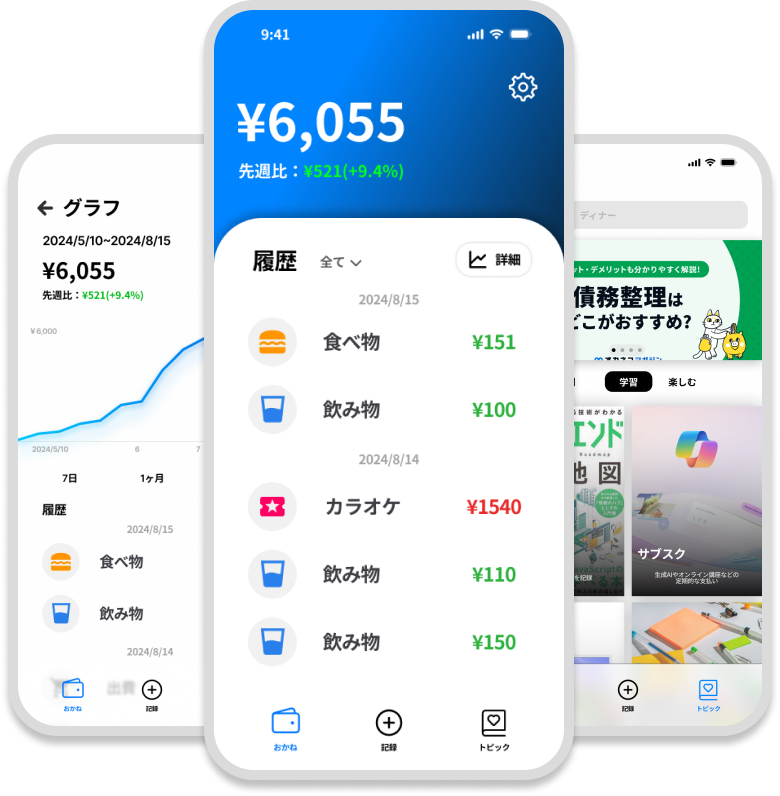
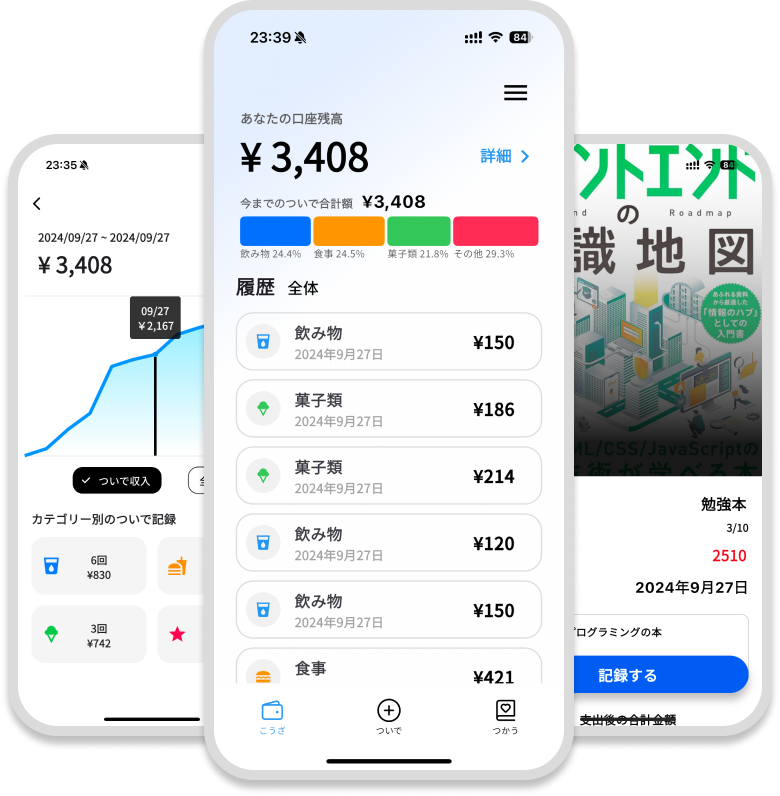
ウォークスルーページの追加

diff --git a/lib/views/pages/walkthrough/pageview.dart b/lib/views/pages/walkthrough/pageview.dart
@@ -36,21 +36,27 @@ class _PageViewWidgetState extends State<PageViewWidget>  with TickerProviderSta
 
   @override
   Widget build(BuildContext context) {
+    // 画面の高さを取得
+    final screenHeight = MediaQuery.of(context).size.height;
+
+    // 画面の高さに基づいてパディングを設定
+    final topPadding = screenHeight * 0.1;  // 高さの10%
+    final bottomPadding = screenHeight * 0.1;  // 高さの20%
     return PopScope(
       canPop: false,
       child: Scaffold(
         backgroundColor: Colors.white,
-        body: Column(
-          children: [
-            Expanded(
-              child: PageView(
-                controller: _pageViewController,
-                onPageChanged: _handlePageViewChanged,
-                children: <Widget>[
-                  Padding(
-                    padding: EdgeInsets.fromLTRB(20, 150, 20, 200),
-                    child: Column(
-                      mainAxisAlignment: MainAxisAlignment.spaceBetween,
+        body: Padding(
+          padding: EdgeInsets.fromLTRB(20, topPadding, 20, bottomPadding),
+          child:  Column(
+            children: [
+              Expanded(
+                child: PageView(
+                  controller: _pageViewController,
+                  onPageChanged: _handlePageViewChanged,
+                  children: <Widget>[
+                    Column(
+                      mainAxisAlignment: MainAxisAlignment.center,
                       children: [
                         Text('ついで口座',
                           style: TextStyle(
@@ -59,7 +65,7 @@ class _PageViewWidgetState extends State<PageViewWidget>  with TickerProviderSta
                             color: Colors.black
                           ),
                         ),
-                        SizedBox(height: 50),
+                        SizedBox(height: 100),
                         Image.asset(
                           'assets/images/walkthrough.png', 
                           width: MediaQuery.of(context).size.width * 0.8, 
@@ -67,16 +73,13 @@ class _PageViewWidgetState extends State<PageViewWidget>  with TickerProviderSta
                         ),
                       ],
                     ),
-                  ),
-                  Padding(
-                    padding: const EdgeInsets.fromLTRB(20, 70, 20, 150),
-                    child: Column(
+                    Column(
                       mainAxisAlignment: MainAxisAlignment.start,
                       children: [
-                        Container(
-                          height: 300,
-                          width: 300,
-                          color: Colors.grey,
+                        Image.asset(
+                          'assets/images/kiroku.png', 
+                          width: MediaQuery.of(context).size.width * 0.8, 
+                          fit: BoxFit.cover, 
                         ),
                         SizedBox(height: 100),                   
                         Text('日々のついで出費を記録', 
@@ -90,7 +93,47 @@ class _PageViewWidgetState extends State<PageViewWidget>  with TickerProviderSta
                         RichText(
                           textAlign: TextAlign.center,
                           text: TextSpan(
-                            text: '生活するうえでどちらかといえば必要じゃない出費を', 
+                            text: '生活するうえでどちらかといえば必要じゃない出費を日々の我慢した金額をアプリに記録しよう！', 
+                            style: TextStyle(
+                              fontSize: 16, 
+                              fontWeight: FontWeight.bold,
+                              color: Color(0xff5B5B5B)
+                            ),
+                            // children: <TextSpan>[
+                            //   TextSpan(
+                            //     text: '\n日々の我慢した金額をアプリに記録しよう！', 
+                            //     style: TextStyle(
+                            //       fontSize: 16, 
+                            //       fontWeight: FontWeight.bold,
+                            //       color: Color(0xff5B5B5B)
+                            //     )
+                            //   ),
+                            // ],
+                          ),
+                        ),
+                      ],
+                    ),
+                    Column(
+                      mainAxisAlignment: MainAxisAlignment.start,
+                      children: [
+                        Image.asset(
+                          'assets/images/payment.png', 
+                          width: MediaQuery.of(context).size.width * 0.8, 
+                          fit: BoxFit.cover, 
+                        ),
+                        SizedBox(height: 100),                   
+                        Text('ついで収入で支出をお得に', 
+                          style: TextStyle(
+                            fontSize: 24, 
+                            fontWeight: FontWeight.bold,
+                            color: Colors.black
+                          )
+                        ),
+                        SizedBox(height: 20),
+                        RichText(
+                          textAlign: TextAlign.center,
+                          text: TextSpan(
+                            text: '今までのついで出費で必要な出費がお得に！', 
                             style: TextStyle(
                               fontSize: 16, 
                               fontWeight: FontWeight.bold,
@@ -98,7 +141,7 @@ class _PageViewWidgetState extends State<PageViewWidget>  with TickerProviderSta
                             ),
                             children: <TextSpan>[
                               TextSpan(
-                                text: '\n日々の我慢した金額をアプリに記録しよう！', 
+                                text: '\nコツコツ記録して貯金をはじめよう!', 
                                 style: TextStyle(
                                   fontSize: 16, 
                                   fontWeight: FontWeight.bold,
@@ -110,16 +153,13 @@ class _PageViewWidgetState extends State<PageViewWidget>  with TickerProviderSta
                         ),
                       ],
                     ),
-                  ),
-                Padding(
-                    padding: const EdgeInsets.fromLTRB(20, 70, 20, 150),
-                    child: Column(
+                    Column(
                       mainAxisAlignment: MainAxisAlignment.start,
                       children: [
-                        Container(
-                          height: 300,
-                          width: 300,
-                          color: Colors.grey,
+                        Image.asset(
+                          'assets/images/graph.png', 
+                          width: MediaQuery.of(context).size.width * 0.8, 
+                          fit: BoxFit.cover, 
                         ),
                         SizedBox(height: 100),                   
                         Text('グラフで見える化', 
@@ -153,54 +193,11 @@ class _PageViewWidgetState extends State<PageViewWidget>  with TickerProviderSta
                         ),
                       ],
                     ),
-                  ),
-                  Padding(
-                    padding: const EdgeInsets.fromLTRB(20, 70, 20, 150),
-                    child: Column(
-                      mainAxisAlignment: MainAxisAlignment.start,
-                      children: [
-                        Container(
-                          height: 300,
-                          width: 300,
-                          color: Colors.grey,
-                        ),
-                        SizedBox(height: 100),                   
-                        Text('貯めた残高で出費に割り当てよう', 
-                          style: TextStyle(
-                            fontSize: 24, 
-                            fontWeight: FontWeight.bold,
-                            color: Colors.black
-                          )
-                        ),
-                        SizedBox(height: 20),
-                        RichText(
-                          textAlign: TextAlign.center,
-                          text: TextSpan(
-                            text: '今までのついで出費で必要な出費がお得に！', 
-                            style: TextStyle(
-                              fontSize: 16, 
-                              fontWeight: FontWeight.bold,
-                              color: Color(0xff5B5B5B)
-                            ),
-                            children: <TextSpan>[
-                              TextSpan(
-                                text: '\nコツコツ記録して貯金をはじめよう!', 
-                                style: TextStyle(
-                                  fontSize: 16, 
-                                  fontWeight: FontWeight.bold,
-                                  color: Color(0xff5B5B5B)
-                                )
-                              ),
-                            ],
-                          ),
-                        ),
-                      ],
-                    ),
-                  ),
-                ],
+                  ],
+                ),
               ),
-            ),
-          ],
+            ],
+          ),
         ),
         floatingActionButton: Padding(
           padding: EdgeInsets.symmetric(horizontal: 30),

diff --git a/lib/views/pages/graph/graph_page.dart b/lib/views/pages/graph/graph_page.dart
@@ -295,28 +295,28 @@ class _GraphPageState extends ConsumerState<GraphPage> with SingleTickerProvider
                     // 飲み物のデータを表示
                     _buildGridItem(
                       Icons.local_drink, 
-                      Colors.blue, 
+                      Color(0xff007AFF),
                       '${categoryData['飲み物']?['count'] ?? 0}回', 
                       '¥${NumberFormat("#,###").format(categoryData['飲み物']?['totalPrice'] ?? 0)}'
                     ),
                     // 食事のデータを表示
                     _buildGridItem(
                       Icons.fastfood, 
-                      Colors.orange, 
+                      Color(0xffFF9500), 
                       '${categoryData['食事']?['count'] ?? 0}回', 
                       '¥${NumberFormat("#,###").format(categoryData['食事']?['totalPrice'] ?? 0)}'
                     ),
                     // 菓子類のデータを表示
                     _buildGridItem(
                       Icons.icecream, 
-                      Colors.lightGreen, 
+                      Color(0xff34C759),
                       '${categoryData['菓子類']?['count'] ?? 0}回', 
                       '¥${NumberFormat("#,###").format(categoryData['菓子類']?['totalPrice'] ?? 0)}'
                     ),
                     // その他のデータを表示
                     _buildGridItem(
                       Icons.star, 
-                      Colors.green, 
+                      Color(0xffFF2D55), 
                       '${categoryData['その他']?['count'] ?? 0}回', 
                       '¥${NumberFormat("#,###").format(categoryData['その他']?['totalPrice'] ?? 0)}'
                     ),

diff --git a/lib/views/pages/topic/components/custom_form.dart b/lib/views/pages/topic/components/custom_form.dart
@@ -218,7 +218,7 @@ class _CustomFormState extends ConsumerState<CustomForm> {
   void _validateMemo(String value) {
     final temporaryTopicList = ref.read(temporaryTopicListNotifierProvider.notifier);
     setState(() {
-      if (value.length > 3) {
+      if (value.length > 30) {
         _memoErrorMessage = 'メモは30文字以内で入力してください';
         temporaryTopicList.updateMemoValidate(false);
       } else {
